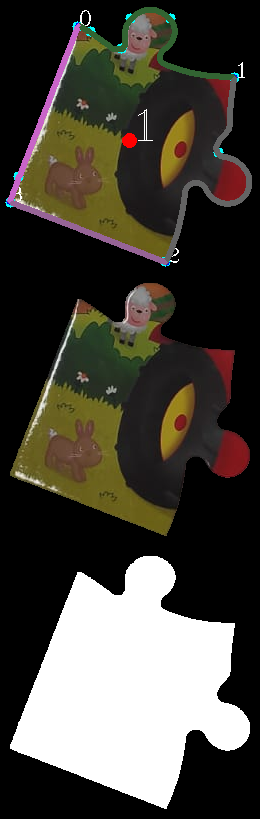
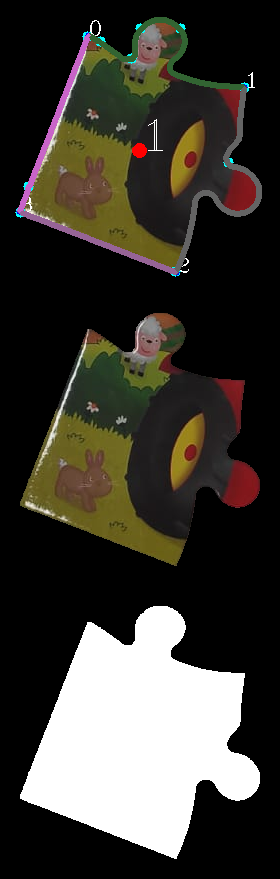
Debugging weird phenomenon

diff --git a/image_processing/piece.py b/image_processing/piece.py
@@ -11,7 +11,8 @@ from image_processing.constants import *
 
 
 class Piece(object):
-    def __init__(self, above, below, index):
+    def __init__(self, above, below, index, relative_pos):
+        self._relative_pos = relative_pos
         self._above = above
         self._below = below
         self._index = index
@@ -32,10 +33,15 @@ class Piece(object):
         self._color_vectors = self.create_color_vector()
 
         self._puzzle_edges = self.puzzle_edges()
-        print(self._puzzle_edges)
 
     def __repr__(self):
         return self._name
+
+    def get_real_centroid(self):
+        return self._centroid + self._relative_pos
+
+    def get_real_corners(self):
+        return [np.array(corner) + self._relative_pos for corner in self._corners]
 
     def display_color_edge(self, color_vector):
         cv2.imshow("colors", np.repeat(np.array([color_vector]), 20, axis=0))
@@ -77,7 +83,6 @@ class Piece(object):
         centroid = tuple(list(centroids[index].astype(int)))
         cv2.circle(self._display, centroid, 3, (0, 0, 255), 7)
         cv2.putText(self._display, str(self._index), centroid, cv2.FONT_HERSHEY_COMPLEX, 1.5, (255, 255, 255))
-
         return centroid
 
     def display_piece(self):
@@ -162,10 +167,6 @@ class Piece(object):
 
 
         max_chain = max(chains, key=len)
-
-        print(self._name, chains)
-        print(self._name, max_chain)
-        # cv2.waitKey()
 
         if len(max_chain) == 3:
             top_pairs = max_chain
@@ -286,6 +287,8 @@ class Piece(object):
             # middle = int(max(max(normed_dists), abs(min(normed_dists))))
             middle = 100
             shape = (int(max(normed_xs)) + 1, 2*middle + 1)
+            print(shape)
+
             mat = np.zeros(shape)
 
             for x, y in zip(normed_xs, normed_dists):
@@ -309,6 +312,9 @@ class Piece(object):
             kernel = np.ones((4, 4), np.uint8)
             im_floodfill = cv2.erode(im_floodfill, kernel)
             im_floodfill[im_floodfill > 1] = 1
+
+            # cv2.imshow("mat", im_floodfill*255)
+            # cv2.waitKey(0)
 
             edge_images.append(im_floodfill.astype(np.uint8))
 
@@ -376,7 +382,7 @@ class Piece(object):
 
         return score
 
-    def compare_edges_color(self, idx1, other, idx2, width=20):
+    def compare_edges_color(self, idx1, other, idx2, width=50):
         color_vector_1 = self._color_vectors[idx1]
         color_vector_2 = other._color_vectors[idx2]
 
@@ -399,17 +405,22 @@ class Piece(object):
 
         return np.average(np.amin(np.array(results), axis=0))
 
+    def compare_edges_length(self, idx1, other, idx2):
+        return abs(len(self._real_edges[idx1]) - len(other._real_edges[idx2]))
+
     def compare_edge_to_piece(self, idx1, other):
         scores = []
         for idx2 in range(len(self._edge_images)):
             if not self._puzzle_edges[idx1] and not other._puzzle_edges[idx2]:
                 shape_score = self.compare_edges_shape(idx1, other, idx2)
                 color_score = self.compare_edges_color(idx1, other, idx2)
+                length_score = self.compare_edges_length(idx1, other, idx2)
 
-                print(color_score)
+                # print(color_score)
+                # print(shape_score)
 
                 # TODO: needs to be weighted
-                total_score = shape_score # + color_score
+                total_score = shape_score
                 scores.append((idx2, total_score))
         scores.sort(key=lambda x: x[1])
         return scores

diff --git a/algorithmics/puzzle.py b/algorithmics/puzzle.py
@@ -32,9 +32,15 @@ class Puzzle(object):
 
     def find_closest_piece_edge(self, p, idx, pcs):
         pcs_dists = [(x, p.compare_edge_to_piece(idx, x)) for x in pcs]
-        piece, edge_scores = min(pcs_dists, key=lambda x: x[1][0][1])
-        print(piece, edge_scores[0][0])
-        return piece, edge_scores[0][0]
+        edges = [edge for piece, edges in pcs_dists for edge in edges]
+
+        if len(edges) == 0:
+            print("No fitting piece!, picking at random")
+            return pcs[0], 0
+        else:
+            piece, edge_scores = min(pcs_dists, key=lambda x: x[1][0][1])
+            print("Found Piece! Piece ", p, " is connected to ", piece, " by (", edge_scores[0][0], ", ", idx, ")")
+            return piece, edge_scores[0][0]
 
     def display(self):
         mat = []
@@ -123,9 +129,9 @@ class Puzzle(object):
             curr_row = self.complete_row(row_first_piece, row_puzzle_edge, curr_pieces, last_row, row_length)
             self._final_puzzle.append(curr_row)
 
-            print("First piece", row_first_piece)
+            # print("First piece", row_first_piece)
 
-        # flip puzzle if wrong
+        # flip puzzle if wrong, not sure about this
         if (first_edges[1] - first_edges[0]) % 4 == 1:
             self._final_puzzle = self._final_puzzle[::-1]
 
@@ -137,6 +143,6 @@ class Puzzle(object):
                 piece.get_centroid()[0],
                 piece.get_centroid()[1],
                 piece.get_theta(),
-            ) for piece in flattened_puzzle
+            ) for piece, edge in flattened_puzzle
         ]
         return commands

diff --git a/image_processing/parse_pieces.py b/image_processing/parse_pieces.py
@@ -7,8 +7,6 @@ import image_processing.piece as piece
 
 
 def create_mask(below, test):
-    print(below.shape)
-
     if test:
         below[below >= TEST_THRESH] = 0
     else:
@@ -27,10 +25,8 @@ def create_mask(below, test):
 
 
 def mask_rgb(above, binary):
-    print(binary.shape)
     mask = cv2.cvtColor(binary, cv2.COLOR_GRAY2RGB)
     masked = above * mask
-
     return masked
 
 
@@ -59,9 +55,17 @@ def recog_pieces(above, below, binary):
             pieces.append(piece.Piece(
                 above[y - PIECE_MARGIN : y + h + PIECE_MARGIN, x - PIECE_MARGIN : x + w + PIECE_MARGIN].copy(),
                 below[y - PIECE_MARGIN : y + h + PIECE_MARGIN, x - PIECE_MARGIN : x + w + PIECE_MARGIN].copy(),
-                index
+                index,
+                np.array([x - PIECE_MARGIN, y - PIECE_MARGIN])
             ))
             pieces[index].display_piece()
+
+            # plot on original piece
+            centroid = tuple(pieces[index].get_real_centroid().tolist())
+            cv2.circle(recoged, centroid,  15, [0, 0, 255], -1)
+            for corner in pieces[index].get_real_corners():
+                cv2.circle(recoged, tuple(corner.tolist()), 15, [255, 0, 0], -1)
+
             index += 1
 
     util.output("test", recoged)

diff --git a/image_processing/image_proc.py b/image_processing/image_proc.py
@@ -21,8 +21,6 @@ def get_pieces(above, below, test):
     cv2.waitKey(0)
 
     not_masked = parse_pieces.show_diffs(above, binary)
-
-    print("here")
     recoged, pieces = parse_pieces.recog_pieces(masked, below, binary)
 
     pieces[0].compare_piece_to_piece(pieces[1])

diff --git a/image_processing/constants.py b/image_processing/constants.py
@@ -9,6 +9,6 @@ REAL_THRESH = 220
 TEST_THRESH = 75
 CNT_THRESH = 50
 
-PIECE_MARGIN = 10
+PIECE_MARGIN = 20
 
 COLOR_MARGIN = 3
